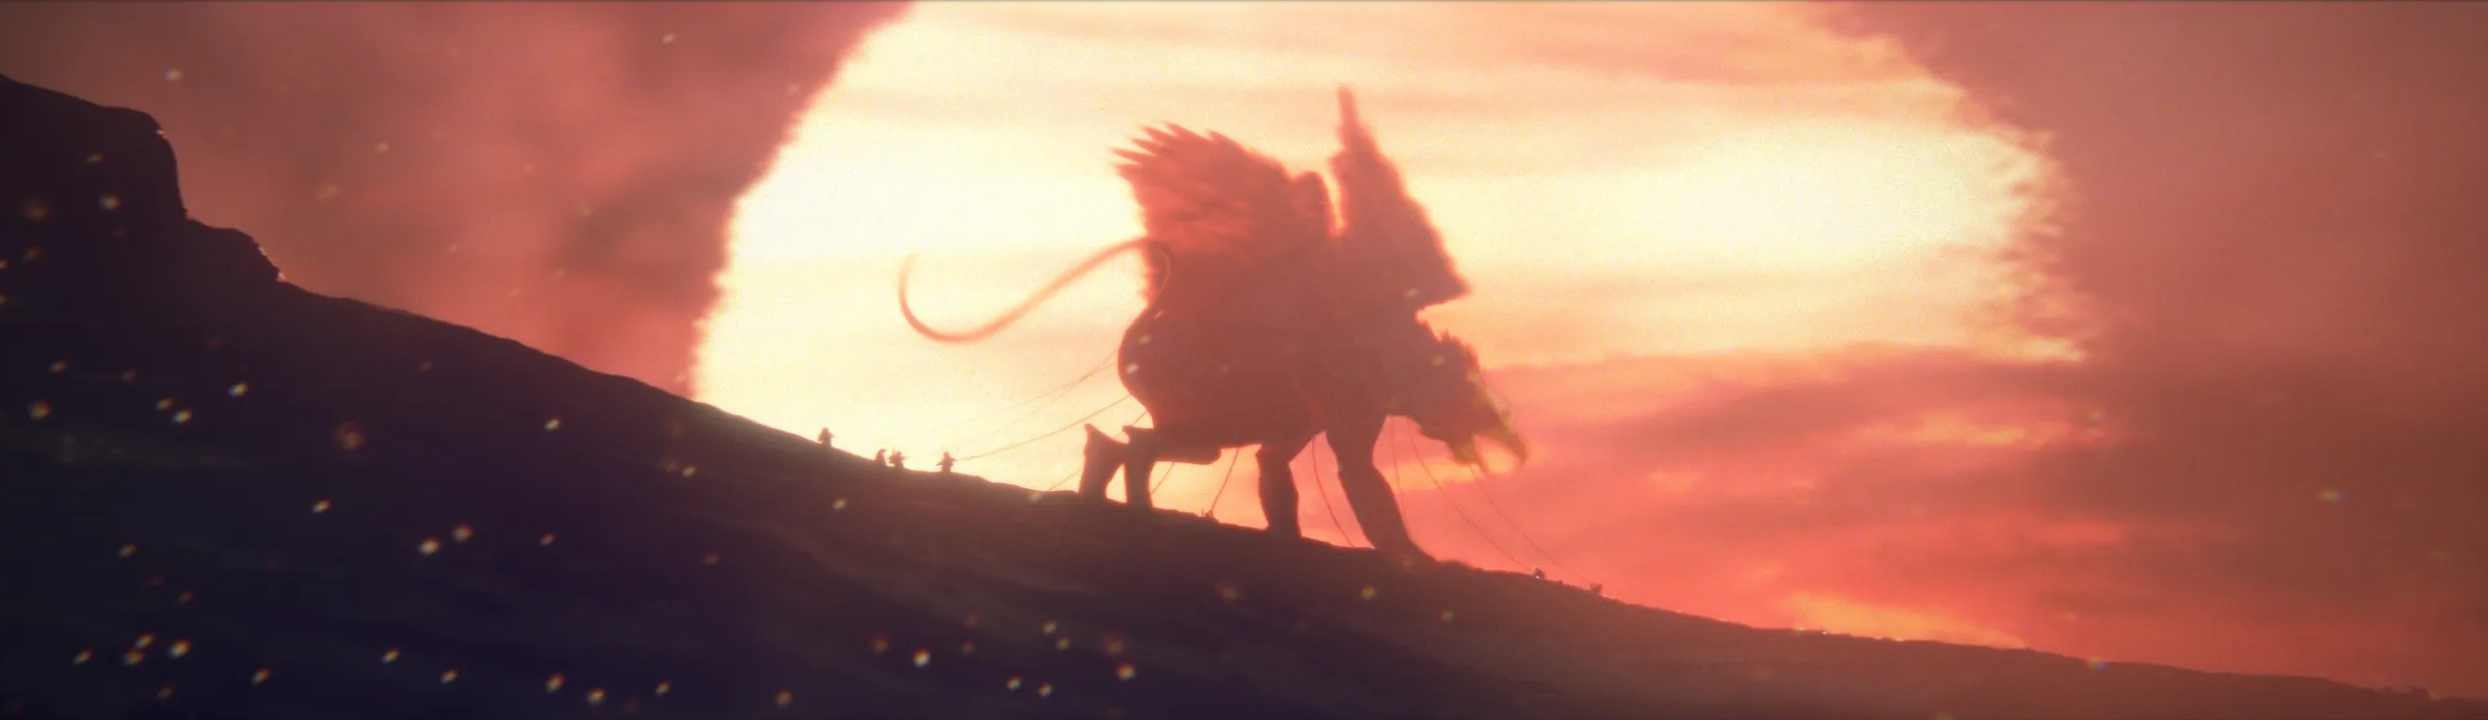
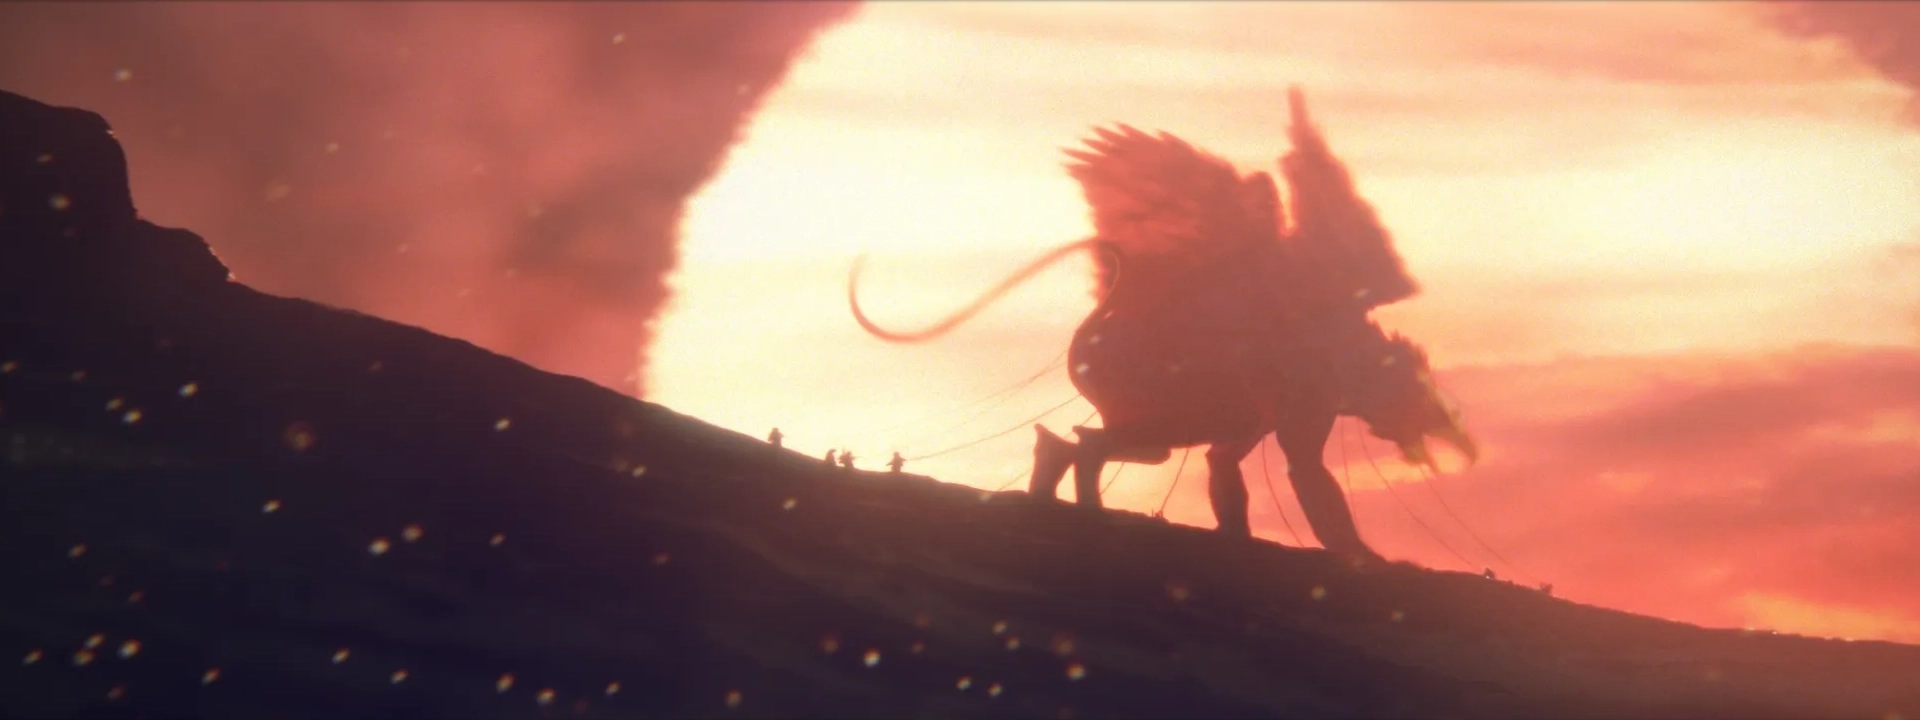
changes in video responsivness and images crop

diff --git a/js/ui/carousels.js b/js/ui/carousels.js
@@ -12,13 +12,19 @@ import { visualiseReferences } from "./references.js";
 
 export function initMainScrollLogic() {
 window.addEventListener('scroll', scrollLogic);
+
+// Add responsive video handling for window resize
+initVideoResponsiveness();
+
+// Add ShowReel detection for button positioning
+initShowReelDetection();
 };
 
 function scrollLogic() {
 
   console.log('scrollLogic running');
 
-  const homeCarousel = document.querySelector('div#page-home'); 
+  const homeCarousel = document.querySelector('div#page-home');
   const aiCarousel = document.querySelector('div#carouselExampleDarkAi div.carousel-inner');
   const cgiCarousel = document.querySelector('div#carouselExampleDarkCgi div.carousel-inner');
   const phtCarousel = document.querySelector('div#carouselExampleDarkPhoto div.carousel-inner');
@@ -61,4 +67,93 @@ function scrollLogic() {
   } else {
     // console.log('Unusual carousel in the viewport!!');
   }
-};
+}
+
+/**
+ * Initialize video responsiveness for window resize events
+ */
+function initVideoResponsiveness() {
+  // Handle window resize for video responsiveness
+  window.addEventListener('resize', handleVideoResize);
+
+  // Initial setup
+  handleVideoResize();
+}
+
+/**
+ * Handle video sizing on window resize
+ */
+function handleVideoResize() {
+  const video = document.getElementById('cg-video');
+  if (!video) return;
+
+  const windowWidth = window.innerWidth;
+  const windowHeight = window.innerHeight;
+
+  // Responsive sizing based on window dimensions
+  if (windowWidth <= 768) {
+    // Mobile
+    video.style.maxHeight = '50vh';
+    video.style.width = '100%';
+  } else if (windowWidth <= 1024) {
+    // Tablet
+    video.style.maxHeight = '60vh';
+    video.style.width = '100%';
+  } else if (windowWidth <= 1920) {
+    // Desktop
+    video.style.maxHeight = '70vh';
+    video.style.width = '90%';
+  } else {
+    // Large desktop
+    video.style.maxHeight = '75vh';
+    video.style.width = '85%';
+  }
+
+  // Ensure video maintains aspect ratio
+  video.style.height = 'auto';
+  video.style.objectFit = 'contain';
+  video.style.margin = '0 auto';
+  video.style.display = 'block';
+}
+
+/**
+ * Initialize ShowReel detection for button positioning
+ */
+function initShowReelDetection() {
+  // Listen for carousel slide changes
+  const cgiCarousel = document.getElementById('carouselExampleDarkCgi');
+  if (cgiCarousel) {
+    // Listen for Bootstrap carousel slide events
+    cgiCarousel.addEventListener('slid.bs.carousel', handleShowReelDetection);
+    cgiCarousel.addEventListener('slide.bs.carousel', handleShowReelDetection);
+
+    // Check on initial load
+    setTimeout(() => {
+      handleShowReelDetection();
+    }, 500);
+  }
+}
+
+/**
+ * Detect if ShowReel video is active and adjust button positioning
+ */
+function handleShowReelDetection() {
+  const cgiCarousel = document.getElementById('carouselExampleDarkCgi');
+  const activeItem = cgiCarousel?.querySelector('.carousel-item.active');
+  const video = activeItem?.querySelector('video');
+
+  const prevContainer = cgiCarousel?.querySelector('.carousel-button-container-prev');
+  const nextContainer = cgiCarousel?.querySelector('.carousel-button-container-next');
+
+  if (video && prevContainer && nextContainer) {
+    // ShowReel is active - move buttons away from center
+    prevContainer.classList.add('video-active-positioning');
+    nextContainer.classList.add('video-active-positioning');
+    console.log('ShowReel detected - moving buttons away from center');
+  } else {
+    // No video active - restore normal positioning
+    if (prevContainer) prevContainer.classList.remove('video-active-positioning');
+    if (nextContainer) nextContainer.classList.remove('video-active-positioning');
+    console.log('No video active - restoring normal button positioning');
+  }
+}

diff --git a/style/media.css b/style/media.css
@@ -53,6 +53,24 @@
         margin-bottom: 0.5em;
     }
 
+    /* Mobile video responsiveness */
+    #cg-video {
+        width: 100%;
+        height: auto;
+        max-height: 50vh; /* Smaller on mobile to leave room for controls */
+        object-fit: contain;
+        margin: 0 auto;
+    }
+
+    /* Mobile video button positioning - wider containers for easier touch */
+    .carousel-button-container-prev.video-active-positioning {
+        width: 30% !important;
+    }
+
+    .carousel-button-container-next.video-active-positioning {
+        width: 30% !important;
+    }
+
 }
 
 @media (min-width: 512px) and (max-width: 768px) {
@@ -78,6 +96,15 @@
         grid-row-end: 2;
         height: 65vh;
         justify-content: center;
+    }
+
+    /* Tablet video responsiveness */
+    #cg-video {
+        width: 100%;
+        height: auto;
+        max-height: 60vh; /* Medium size for tablets */
+        object-fit: contain;
+        margin: 0 auto;
     }
 
 }
@@ -202,10 +229,23 @@
     }
 
     #cg-video {
+        width: 90%; /* Slightly smaller on large screens for better proportions */
+        height: auto;
+        max-height: 75vh; /* Larger max height for desktop */
+        max-width: 90vw; /* Ensure it doesn't exceed viewport width */
+        object-fit: contain;
+        margin: 0 auto;
         align-self: center;
-        max-width:fit-content;
-        max-height: fit-content;
-      }
+    }
+
+    /* Desktop video button positioning - smaller containers for precise access */
+    .carousel-button-container-prev.video-active-positioning {
+        width: 20% !important;
+    }
+
+    .carousel-button-container-next.video-active-positioning {
+        width: 20% !important;
+    }
 
     .paragraph {
       padding: 1rem;

diff --git a/style/style.css b/style/style.css
@@ -65,12 +65,15 @@ p {
     height: 100%;
 }
 
-/* Video styling - ensures consistency with original video element */
+/* Video styling - responsive to browser width changes */
 #cg-video {
     width: 100%;
-    height: 100%;
-    object-fit: cover;
+    height: auto;
+    max-width: 100%;
+    max-height: 70vh; /* Limit height to maintain viewport visibility */
+    object-fit: contain; /* Maintain aspect ratio */
     display: block;
+    margin: 0 auto; /* Center the video */
 }
 
 /* Video container for responsive iframe (if needed for YouTube backup) */
@@ -245,6 +248,36 @@ div.prj-description .text-description p {
     grid-column-end: 3;
     grid-row-start: 1;
     grid-row-end: 2;
+}
+
+/* Video-active positioning - move buttons away from center for ShowReel */
+.carousel-button-container-prev.video-active-positioning {
+    position: absolute !important;
+    left: 0 !important;
+    width: 25% !important;
+    height: 100% !important;
+    z-index: 10;
+    grid-column-start: unset;
+    grid-column-end: unset;
+}
+
+.carousel-button-container-next.video-active-positioning {
+    position: absolute !important;
+    right: 0 !important;
+    width: 25% !important;
+    height: 100% !important;
+    z-index: 10;
+    grid-column-start: unset;
+    grid-column-end: unset;
+}
+
+/* Adjust button sizes within containers for video mode */
+.carousel-button-container-prev.video-active-positioning .carousel-control-prev {
+    width: 100% !important;
+}
+
+.carousel-button-container-next.video-active-positioning .carousel-control-next {
+    width: 100% !important;
 }
 
 .carousel-control-prev {
